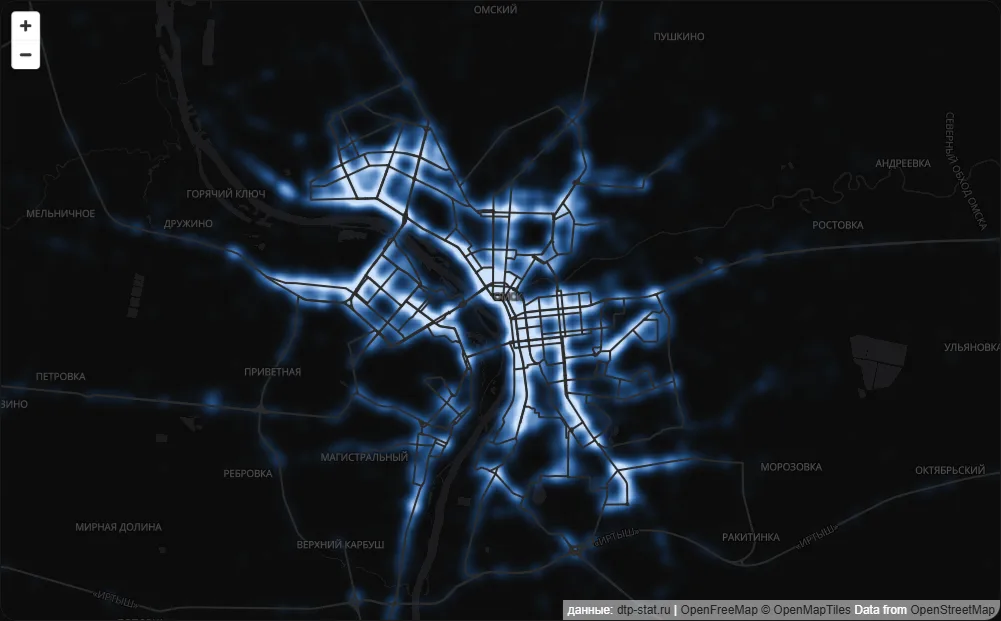
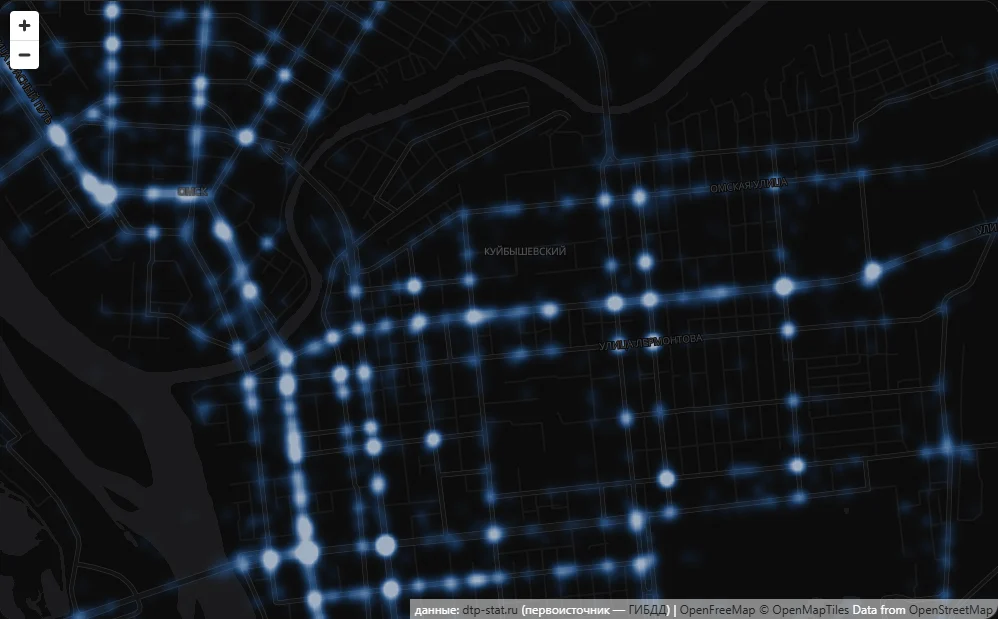
Переснял карту: тепловой слой теперь поверх дорог

diff --git a/content/articles/omsk-dtp-base.md b/content/articles/omsk-dtp-base.md
@@ -187,8 +187,8 @@ _Он, конечно, виноват. Но он… не виноват!_
 На [gibdd.cm4ker.ru](http://gibdd.cm4ker.ru/) три страницы. «Разбор» — снег, температура, календарь и часы. «Водители» — опьянение и побеги по видам ДТП, дням недели и годам. «Карта» — тепловая карта всех точек с фильтрами по годам и тяжести; яркость подстраивается под то, что отфильтровано, поэтому один год виден так же ясно, как все одиннадцать. Как я к этому пришёл, тянет на отдельную заметку.
 
 <figure class="article-figure article-figure--wide">
-  <img src="/images/omsk-dtp-base/maplibre-dark.webp" alt="Тёмная карта Омска: сеть улиц светится голубым, самые аварийные перекрёстки почти белые" />
-  <figcaption>Карта за все годы. Чем светлее, тем больше аварий; почти белые точки — перекрёстки.</figcaption>
+  <img src="/images/omsk-dtp-base/maplibre-dark.webp" alt="Тёмная карта центра Омска: улицы подсвечены голубым, самые аварийные перекрёстки — почти белые пятна" />
+  <figcaption>Центр Омска, все годы. Чем светлее, тем больше аварий; почти белые пятна — перекрёстки.</figcaption>
 </figure>
 
 Точные цифры я сюда намеренно не тащу: у каждого графика на сайте есть кнопка «Таблица», там всё до десятых. Источник данных — карточки ГИБДД со [stat.gibdd.ru](http://stat.gibdd.ru): для «Разбора» и карты — через [dtp-stat.ru](https://dtp-stat.ru), для «Водителей» — напрямую. «Карта ДТП» просит за свои данные активную ссылку, что я и делаю.
